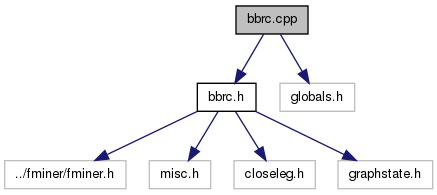
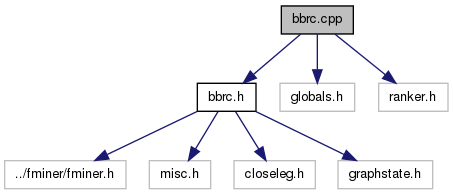
Updated doc

diff --git a/libbbrc/doc/html/index.html b/libbbrc/doc/html/index.html
@@ -172,7 +172,8 @@ Environment Variables</h3>
  <b>FMINER_LAZAR</b> : Produce output in linfrag format which can be used as input to Lazar (e.g. export FMINER_LAZAR=1).<br/>
  <b>FMINER_PVALUES</b> : Produce p-values instead of chi-square values (e.g. export FMINER_PVALUES=1).<br/>
  <b>FMINER_NO_AROMATIC_WC</b>: Disallow aromatic wildcard bonds on aliphatic bonds, when aromatic perception was switched off ('-a') (e.g. export FMINER_NO_AROMATIC_WC=1).<br/>
- <b>FMINER_SILENT</b> : Redirect STDERR (debug output) of fminer to local file 'fminer_debug.txt' <b>FMINER_NR_HITS</b> : Display number of times each fragment occurs in the output (only when FMINER_LAZAR is not set).</p>
+ <b>FMINER_SILENT</b> : Redirect STDERR (debug output) of fminer to local file 'fminer_debug.txt'<br/>
+ <b>FMINER_NR_HITS</b> : Display (in the occurrence lists) the number of times each fragment occurs in a molecule.</p>
 <p>Note: The value you set the environment variables to is irrelevant. Use <code>unset</code> to disable the environment variables, e.g. <code>unset FMINER_LAZAR</code>.</p>
 <h3><a class="anchor" id="sec3"></a>
 Examples using the LibBbrc API</h3>
@@ -313,7 +314,7 @@ Contact</h2>
 </div>
   <div id="nav-path" class="navpath">
     <ul>
-      <li class="footer">Generated on Wed Jun 29 2011 14:38:24 for libbbrc by&#160;
+      <li class="footer">Generated on Sat Jul 2 2011 15:41:17 for libbbrc by&#160;
 <a href="http://www.doxygen.org/index.html">
 <img class="footer" src="doxygen.png" alt="doxygen"/></a> 1.7.3 </li>
     </ul>

diff --git a/libbbrc/doc/html/bbrc_8cpp.html b/libbbrc/doc/html/bbrc_8cpp.html
@@ -64,6 +64,7 @@ $(document).ready(initResizable);
 <div class="contents">
 <div class="textblock"><code>#include &quot;<a class="el" href="bbrc_8h_source.html">bbrc.h</a>&quot;</code><br/>
 <code>#include &quot;globals.h&quot;</code><br/>
+<code>#include &quot;ranker.h&quot;</code><br/>
 </div><div class="textblock"><div class="dynheader">
 Include dependency graph for bbrc.cpp:</div>
 <div class="dyncontent">
@@ -222,7 +223,7 @@ Functions</h2></td></tr>
   <div id="nav-path" class="navpath">
     <ul>
       <li class="navelem"><a class="el" href="bbrc_8cpp.html">bbrc.cpp</a>      </li>
-      <li class="footer">Generated on Wed Jun 29 2011 14:38:24 for libbbrc by&#160;
+      <li class="footer">Generated on Sat Jul 2 2011 15:41:17 for libbbrc by&#160;
 <a href="http://www.doxygen.org/index.html">
 <img class="footer" src="doxygen.png" alt="doxygen"/></a> 1.7.3 </li>
     </ul>

diff --git a/libbbrc/doc/html/classBbrc.html b/libbbrc/doc/html/classBbrc.html
@@ -1487,7 +1487,7 @@ Public Member Functions</h2></td></tr>
   <div id="nav-path" class="navpath">
     <ul>
       <li class="navelem"><a class="el" href="classBbrc.html">Bbrc</a>      </li>
-      <li class="footer">Generated on Wed Jun 29 2011 14:38:24 for libbbrc by&#160;
+      <li class="footer">Generated on Sat Jul 2 2011 15:41:17 for libbbrc by&#160;
 <a href="http://www.doxygen.org/index.html">
 <img class="footer" src="doxygen.png" alt="doxygen"/></a> 1.7.3 </li>
     </ul>

diff --git a/libbbrc/doc/html/Mainpage_8h.html b/libbbrc/doc/html/Mainpage_8h.html
@@ -69,7 +69,7 @@ $(document).ready(initResizable);
   <div id="nav-path" class="navpath">
     <ul>
       <li class="navelem"><a class="el" href="Mainpage_8h.html">Mainpage.h</a>      </li>
-      <li class="footer">Generated on Wed Jun 29 2011 14:38:24 for libbbrc by&#160;
+      <li class="footer">Generated on Sat Jul 2 2011 15:41:17 for libbbrc by&#160;
 <a href="http://www.doxygen.org/index.html">
 <img class="footer" src="doxygen.png" alt="doxygen"/></a> 1.7.3 </li>
     </ul>

diff --git a/libbbrc/doc/html/Mainpage_8h_source.html b/libbbrc/doc/html/Mainpage_8h_source.html
@@ -66,7 +66,7 @@ $(document).ready(initResizable);
   <div id="nav-path" class="navpath">
     <ul>
       <li class="navelem"><a class="el" href="Mainpage_8h.html">Mainpage.h</a>      </li>
-      <li class="footer">Generated on Wed Jun 29 2011 14:38:24 for libbbrc by&#160;
+      <li class="footer">Generated on Sat Jul 2 2011 15:41:17 for libbbrc by&#160;
 <a href="http://www.doxygen.org/index.html">
 <img class="footer" src="doxygen.png" alt="doxygen"/></a> 1.7.3 </li>
     </ul>

diff --git a/libbbrc/doc/html/libbbrc_8css.html b/libbbrc/doc/html/libbbrc_8css.html
@@ -310,7 +310,7 @@ Variables</h2></td></tr>
   <div id="nav-path" class="navpath">
     <ul>
       <li class="navelem"><a class="el" href="libbbrc_8css.html">libbbrc.css</a>      </li>
-      <li class="footer">Generated on Wed Jun 29 2011 14:38:24 for libbbrc by&#160;
+      <li class="footer">Generated on Sat Jul 2 2011 15:41:17 for libbbrc by&#160;
 <a href="http://www.doxygen.org/index.html">
 <img class="footer" src="doxygen.png" alt="doxygen"/></a> 1.7.3 </li>
     </ul>

diff --git a/libbbrc/doc/html/bbrc_8h_source.html b/libbbrc/doc/html/bbrc_8h_source.html
@@ -184,7 +184,7 @@ $(document).ready(initResizable);
   <div id="nav-path" class="navpath">
     <ul>
       <li class="navelem"><a class="el" href="bbrc_8h.html">bbrc.h</a>      </li>
-      <li class="footer">Generated on Wed Jun 29 2011 14:38:24 for libbbrc by&#160;
+      <li class="footer">Generated on Sat Jul 2 2011 15:41:17 for libbbrc by&#160;
 <a href="http://www.doxygen.org/index.html">
 <img class="footer" src="doxygen.png" alt="doxygen"/></a> 1.7.3 </li>
     </ul>

diff --git a/libbbrc/doc/html/bbrc_8h.html b/libbbrc/doc/html/bbrc_8h.html
@@ -109,7 +109,7 @@ Variables</h2></td></tr>
   <div id="nav-path" class="navpath">
     <ul>
       <li class="navelem"><a class="el" href="bbrc_8h.html">bbrc.h</a>      </li>
-      <li class="footer">Generated on Wed Jun 29 2011 14:38:24 for libbbrc by&#160;
+      <li class="footer">Generated on Sat Jul 2 2011 15:41:17 for libbbrc by&#160;
 <a href="http://www.doxygen.org/index.html">
 <img class="footer" src="doxygen.png" alt="doxygen"/></a> 1.7.3 </li>
     </ul>

diff --git a/libbbrc/doc/html/namespacefm.html b/libbbrc/doc/html/namespacefm.html
@@ -232,7 +232,7 @@ Variables</h2></td></tr>
   <div id="nav-path" class="navpath">
     <ul>
       <li class="navelem"><a class="el" href="namespacefm.html">fm</a>      </li>
-      <li class="footer">Generated on Wed Jun 29 2011 14:38:24 for libbbrc by&#160;
+      <li class="footer">Generated on Sat Jul 2 2011 15:41:17 for libbbrc by&#160;
 <a href="http://www.doxygen.org/index.html">
 <img class="footer" src="doxygen.png" alt="doxygen"/></a> 1.7.3 </li>
     </ul>

diff --git a/libbbrc/doc/html/classBbrc-members.html b/libbbrc/doc/html/classBbrc-members.html
@@ -104,7 +104,7 @@ This is the complete list of members for <a class="el" href="classBbrc.html">Bbr
 </div>
   <div id="nav-path" class="navpath">
     <ul>
-      <li class="footer">Generated on Wed Jun 29 2011 14:38:24 for libbbrc by&#160;
+      <li class="footer">Generated on Sat Jul 2 2011 15:41:17 for libbbrc by&#160;
 <a href="http://www.doxygen.org/index.html">
 <img class="footer" src="doxygen.png" alt="doxygen"/></a> 1.7.3 </li>
     </ul>

diff --git a/libbbrc/doc/html/graph_legend.html b/libbbrc/doc/html/graph_legend.html
@@ -122,7 +122,7 @@ A yellow dashed arrow denotes a relation between a template instance and the tem
 </div>
   <div id="nav-path" class="navpath">
     <ul>
-      <li class="footer">Generated on Wed Jun 29 2011 14:38:24 for libbbrc by&#160;
+      <li class="footer">Generated on Sat Jul 2 2011 15:41:17 for libbbrc by&#160;
 <a href="http://www.doxygen.org/index.html">
 <img class="footer" src="doxygen.png" alt="doxygen"/></a> 1.7.3 </li>
     </ul>

diff --git a/libbbrc/doc/html/functions.html b/libbbrc/doc/html/functions.html
@@ -221,7 +221,7 @@ $(document).ready(initResizable);
 </div>
   <div id="nav-path" class="navpath">
     <ul>
-      <li class="footer">Generated on Wed Jun 29 2011 14:38:24 for libbbrc by&#160;
+      <li class="footer">Generated on Sat Jul 2 2011 15:41:17 for libbbrc by&#160;
 <a href="http://www.doxygen.org/index.html">
 <img class="footer" src="doxygen.png" alt="doxygen"/></a> 1.7.3 </li>
     </ul>
